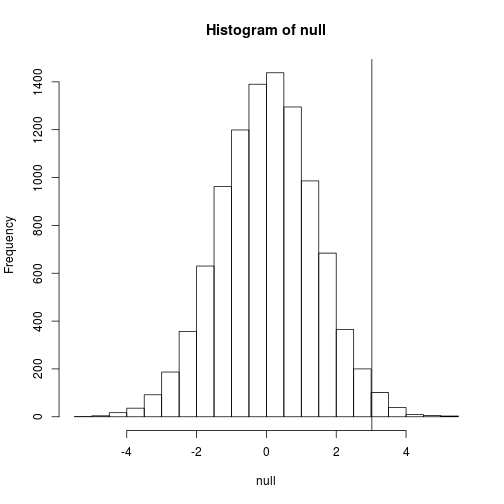
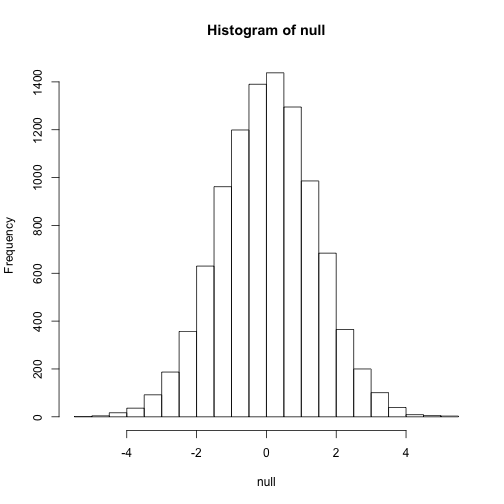
adding random_variables to book

diff --git a/pages/random_variables.md b/pages/random_variables.md
@@ -37,8 +37,7 @@ list.files(dir)
 ```
 
 ```
-## [1] "data"        "DESCRIPTION" "extdata"     "help"        "html"       
-## [6] "Meta"        "NAMESPACE"   "script"
+## character(0)
 ```
 
 ```r
@@ -46,14 +45,21 @@ list.files(file.path(dir,"extdata"))
 ```
 
 ```
-## [1] "babies.txt"                   "femaleControlsPopulation.csv"
-## [3] "femaleMiceWeights.csv"        "mice_pheno.csv"              
-## [5] "msleep_ggplot2.csv"           "README"
+## character(0)
 ```
 
 ```r
 filename <- file.path(dir,"extdata/femaleMiceWeights.csv")
 dat <- read.csv(filename)
+```
+
+```
+## Warning in file(file, "rt"): cannot open file
+## '/extdata/femaleMiceWeights.csv': No such file or directory
+```
+
+```
+## Error in file(file, "rt"): cannot open the connection
 ```
 
 ## Our first look at data
@@ -66,31 +72,7 @@ dat
 ```
 
 ```
-##    Diet Bodyweight
-## 1  chow      21.51
-## 2  chow      28.14
-## 3  chow      24.04
-## 4  chow      23.45
-## 5  chow      23.68
-## 6  chow      19.79
-## 7  chow      28.40
-## 8  chow      20.98
-## 9  chow      22.51
-## 10 chow      20.10
-## 11 chow      26.91
-## 12 chow      26.25
-## 13   hf      25.71
-## 14   hf      26.37
-## 15   hf      22.80
-## 16   hf      25.34
-## 17   hf      24.97
-## 18   hf      28.14
-## 19   hf      29.58
-## 20   hf      30.92
-## 21   hf      34.02
-## 22   hf      21.90
-## 23   hf      31.53
-## 24   hf      20.73
+## Error in eval(expr, envir, enclos): object 'dat' not found
 ```
 
 So are the hf mice heavier? Note that mouse 24 at 20.73 grams is one the lightest mice while 21 at 34.02 is one of the heaviest. Both are on the hf diet. Just from looking at the data we see there is *variability*. Claims such as the one above usually refer to the averages. So let's look at the average of each group:
@@ -98,12 +80,26 @@ So are the hf mice heavier? Note that mouse 24 at 20.73 grams is one the lightes
 
 ```r
 control <- dat[1:12,2]
+```
+
+```
+## Error in eval(expr, envir, enclos): object 'dat' not found
+```
+
+```r
 treatment <- dat[13:24,2]
+```
+
+```
+## Error in eval(expr, envir, enclos): object 'dat' not found
+```
+
+```r
 print(mean(treatment))
 ```
 
 ```
-## [1] 26.83417
+## Error in mean(treatment): object 'treatment' not found
 ```
 
 ```r
@@ -111,16 +107,26 @@ print(mean(control))
 ```
 
 ```
-## [1] 23.81333
+## Error in mean(control): object 'control' not found
 ```
 
 ```r
 diff <- mean(treatment)-mean(control)
+```
+
+```
+## Error in mean(treatment): object 'treatment' not found
+```
+
+```r
 print(diff)
 ```
 
 ```
-## [1] 3.020833
+## function (x, ...) 
+## UseMethod("diff")
+## <bytecode: 0x102f0e588>
+## <environment: namespace:base>
 ```
 
 So the hf diet mice are about 10% heavier. Are we done? Why do we need p-values and confidence intervals? The reason is that these averages are random variables. They can take many values. 
@@ -137,21 +143,9 @@ Read in the data, either from your home directory or from dagdata:
 
 ```r
 library(downloader)
-```
-
-```
-## 
-## Attaching package: 'downloader'
-## 
-## The following object is masked from 'package:devtools':
-## 
-##     source_url
-```
-
-```r
 url <- "https://raw.githubusercontent.com/genomicsclass/dagdata/master/inst/extdata/femaleControlsPopulation.csv"
-filename <- tempfile()
-download(url,destfile=filename)
+filename <- "femaleControlsPopulation.csv"
+if (!file.exists(filename)) download(url,destfile=filename)
 population <- read.csv(filename)
 ```
 
@@ -230,7 +224,7 @@ mean(null>=diff)
 ```
 
 ```
-## [1] 0.0151
+## Error in null >= diff: comparison (5) is possible only for atomic and list types
 ```
 
 Only 1.5%. So what do we conclude as skeptics. When there is no diet effect, we see value a `diff` as big as the one we observed only 1.5% of the time. Note that this is what is known as a p-value which we will also define more formally later
@@ -287,10 +281,17 @@ Note that from the histogram we can see that values as large as `diff` are relat
 
 ```r
 hist(null)
-abline(v=diff)
 ```
 
 ![plot of chunk unnamed-chunk-13](figure/random_variables-unnamed-chunk-13-1.png) 
+
+```r
+abline(v=diff)
+```
+
+```
+## Error in int_abline(a = a, b = b, h = h, v = v, untf = untf, ...): cannot coerce type 'closure' to vector of type 'double'
+```
 
 We will provide more details on histograms in later chapters. 
 
@@ -314,7 +315,7 @@ Here $$\mu$$ and $$\sigma$$ are refereed to as the mean and standard deviation. 
 ```
 
 ```
-## [1] 0.01468484
+## Error in pnorm(diff, mean(null), sd(null)): Non-numeric argument to mathematical function
 ```
 
 Later we will learn there is a mathematical explanation for this. A very useful characteristic of this approximation is that one only needs to know $$\mu$$ and $$\sigma$$ to describe the entire distribution. From this we can compute the proportion of values in any interval. 
